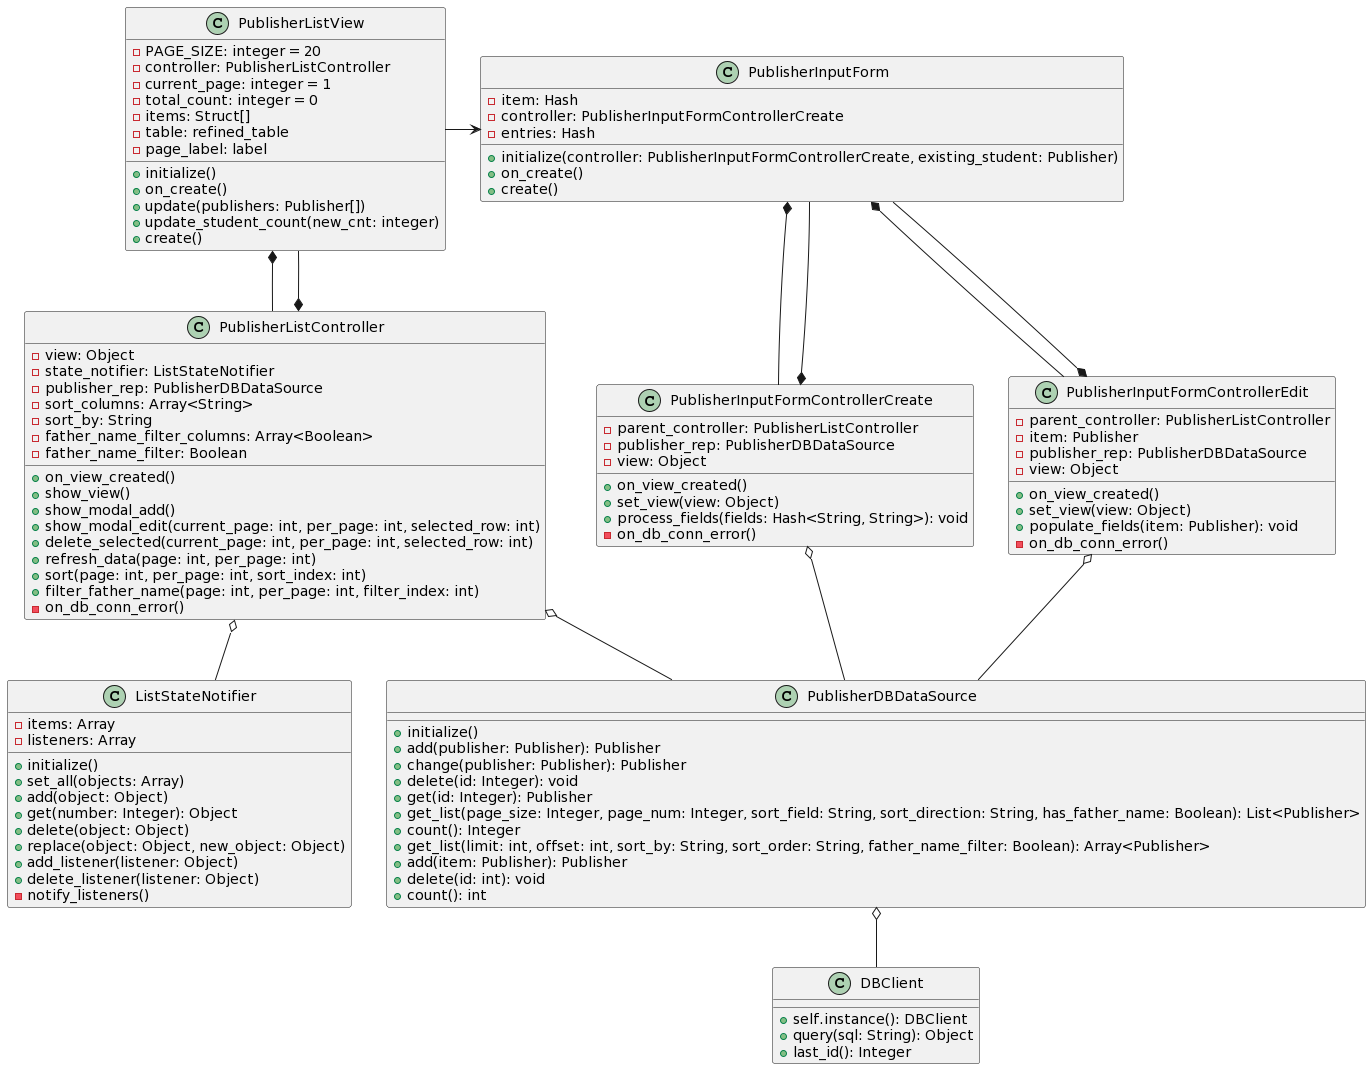
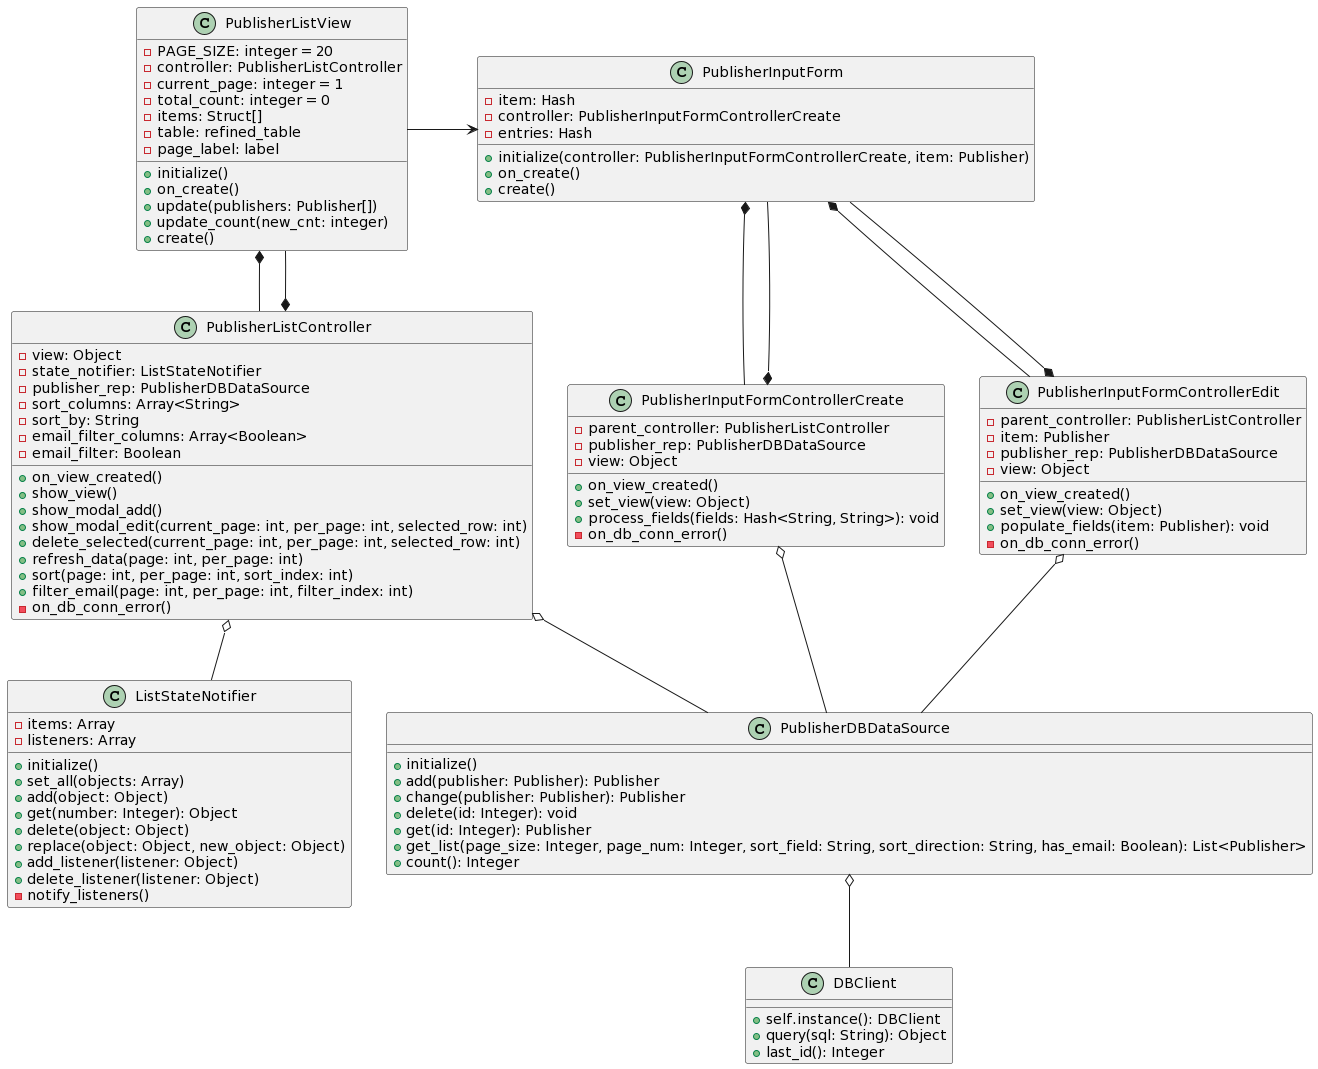
Fix diagrams

diff --git a/lib/controllers/tab_students_controller.rb b/lib/controllers/tab_students_controller.rb
@@ -28,7 +28,7 @@ class TabStudentsController
   def refresh_data(page, per_page)
     begin
       @data_list = @student_rep.paginated_short_students(page, per_page, @data_list)
-      @view.update_student_count(@student_rep.student_count)
+      @view.update_count(@student_rep.student_count)
     rescue
       on_db_conn_error
     end

diff --git a/lib/publisher/controllers/publisher_list_controller.rb b/lib/publisher/controllers/publisher_list_controller.rb
@@ -75,7 +75,7 @@ class PublisherListController
     # end
     items = @publisher_rep.get_list(per_page, page, @sort_by, 'ASC', @email_filter)
     @state_notifier.set_all(items)
-    @view.update_student_count(@publisher_rep.count)
+    @view.update_count(@publisher_rep.count)
   end
 
   def sort(page, per_page, sort_index)

diff --git a/lib/author/controllers/author_list_controller.rb b/lib/author/controllers/author_list_controller.rb
@@ -84,7 +84,7 @@ class AuthorListController
     # end
     items = @author_rep.get_list(per_page, page, @sort_by, 'ASC', @father_name_filter)
     @state_notifier.set_all(items)
-    @view.update_student_count(@author_rep.count)
+    @view.update_count(@author_rep.count)
   end
 
   def sort(page, per_page, sort_index)

diff --git a/lib/publisher/ui/publisher_list_view.rb b/lib/publisher/ui/publisher_list_view.rb
@@ -44,7 +44,7 @@ class PublisherListView
     @page_label.text = "#{@current_page} / #{(@total_count / PAGE_SIZE.to_f).ceil}"
   end
 
-  def update_student_count(new_cnt)
+  def update_count(new_cnt)
     @total_count = new_cnt
     @page_label.text = "#{@current_page} / #{(@total_count / PAGE_SIZE.to_f).ceil}"
   end

diff --git a/lib/author/ui/author_list_view.rb b/lib/author/ui/author_list_view.rb
@@ -45,7 +45,7 @@ class AuthorListView
     @page_label.text = "#{@current_page} / #{(@total_count / PAGE_SIZE.to_f).ceil}"
   end
 
-  def update_student_count(new_cnt)
+  def update_count(new_cnt)
     @total_count = new_cnt
     @page_label.text = "#{@current_page} / #{(@total_count / PAGE_SIZE.to_f).ceil}"
   end

diff --git a/lib/state_holders/list_state_notifier.rb b/lib/state_holders/list_state_notifier.rb
@@ -1,3 +1,5 @@
+
+require ''
 class ListStateNotifier
   attr_reader :items
 
